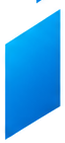
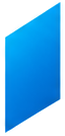
Behold hele søylene i busy-merket uten kunstige kutt.
Bytter segmenteringen til naturlige sammenhengende komponenter
fra PNG-en, så topper ikke lenger rives løs fra søylekroppen.

Changed region(s): [[0.0615, 0.0, 0.9538, 0.3235], [0.0923, 0.7059, 0.9538, 1.0], [0.5538, 0.0, 0.6462, 0.0294]]

diff --git a/components/BrandMarkBusy.jsx b/components/BrandMarkBusy.jsx
@@ -8,24 +8,24 @@ const BASE_W = 422;
 const BASE_H = 447;
 
 /**
- * Segmented ProTop mark parts cropped from the approved PNG.
- * Positions are in source-pixel space (422×447).
+ * Natural connected components from the approved PNG (no artificial cuts).
+ * Cubes stay separate; each pillar/group is one continuous piece so tops
+ * are not torn off the body during the bubble wave.
  */
 const PARTS = [
-  { key: 'c0', kind: 'cube', x: 18, y: 276, w: 29, h: 26, src: require('../assets/brand-busy/00-cube.png') },
+  { key: 'c0', kind: 'cube', x: 22, y: 278, w: 25, h: 22, src: require('../assets/brand-busy/00-cube.png') },
   { key: 'c1', kind: 'cube', x: 58, y: 236, w: 39, h: 37, src: require('../assets/brand-busy/01-cube.png') },
-  { key: 'c2', kind: 'cube', x: 59, y: 320, w: 39, h: 38, src: require('../assets/brand-busy/02-cube.png') },
-  { key: 'c3', kind: 'cube', x: 101, y: 168, w: 39, h: 37, src: require('../assets/brand-busy/03-cube.png') },
-  { key: 'c4', kind: 'cube', x: 101, y: 272, w: 45, h: 43, src: require('../assets/brand-busy/04-cube.png') },
-  { key: 'c5', kind: 'cube', x: 136, y: 211, w: 50, h: 47, src: require('../assets/brand-busy/05-cube.png') },
-  { key: 'p0', kind: 'pillar', x: 152, y: 236, w: 65, h: 143, src: require('../assets/brand-busy/06-pillar.png') },
-  { key: 'p1', kind: 'pillar', x: 186, y: 92, w: 84, h: 308, src: require('../assets/brand-busy/07-pillar.png') },
-  { key: 'p2', kind: 'pillar', x: 231, y: 48, w: 89, h: 362, src: require('../assets/brand-busy/08-pillar.png') },
-  { key: 'p3', kind: 'pillar', x: 276, y: 19, w: 128, h: 341, src: require('../assets/brand-busy/09-pillar.png') },
+  { key: 'c2', kind: 'cube', x: 59, y: 320, w: 39, h: 36, src: require('../assets/brand-busy/02-cube.png') },
+  { key: 'c3', kind: 'cube', x: 101, y: 168, w: 36, h: 35, src: require('../assets/brand-busy/03-cube.png') },
+  { key: 'c4', kind: 'cube', x: 101, y: 274, w: 41, h: 41, src: require('../assets/brand-busy/04-cube.png') },
+  { key: 'c5', kind: 'cube', x: 136, y: 211, w: 51, h: 43, src: require('../assets/brand-busy/05-cube.png') },
+  { key: 'p0', kind: 'pillar', x: 152, y: 243, w: 65, h: 136, src: require('../assets/brand-busy/06-pillar.png') },
+  { key: 'p1', kind: 'pillar', x: 188, y: 94, w: 136, h: 326, src: require('../assets/brand-busy/07-pillar.png') },
+  { key: 'p2', kind: 'pillar', x: 275, y: 19, w: 129, h: 338, src: require('../assets/brand-busy/08-pillar.png') },
 ];
 
 /** Bubble order: small cubes flow into the rising pillars. */
-const WAVE = ['c0', 'c2', 'c1', 'c4', 'c5', 'c3', 'p0', 'p1', 'p2', 'p3'];
+const WAVE = ['c0', 'c2', 'c1', 'c4', 'c5', 'c3', 'p0', 'p1', 'p2'];
 
 /**
  * Approved ProTop mark, rebuilt as separate PNG pieces so cubes/pillars can
